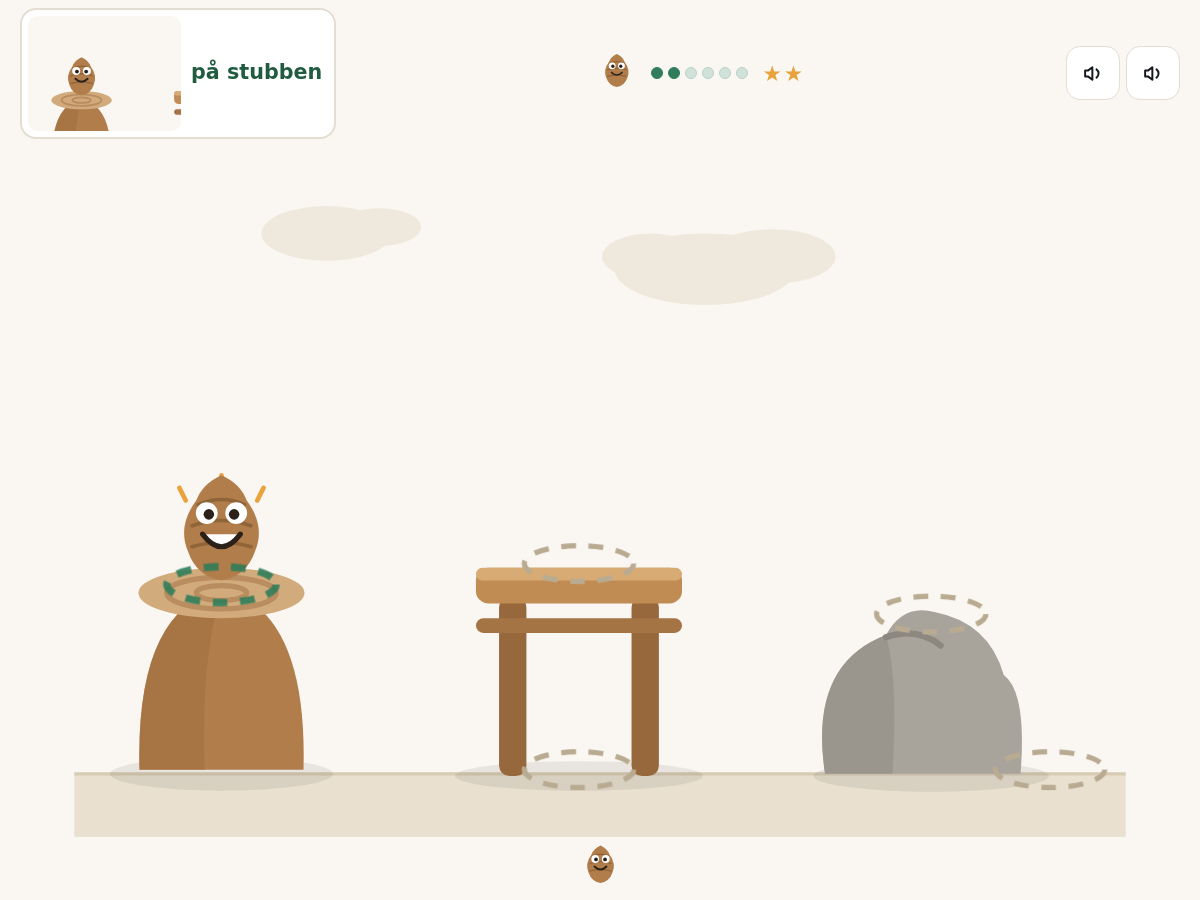
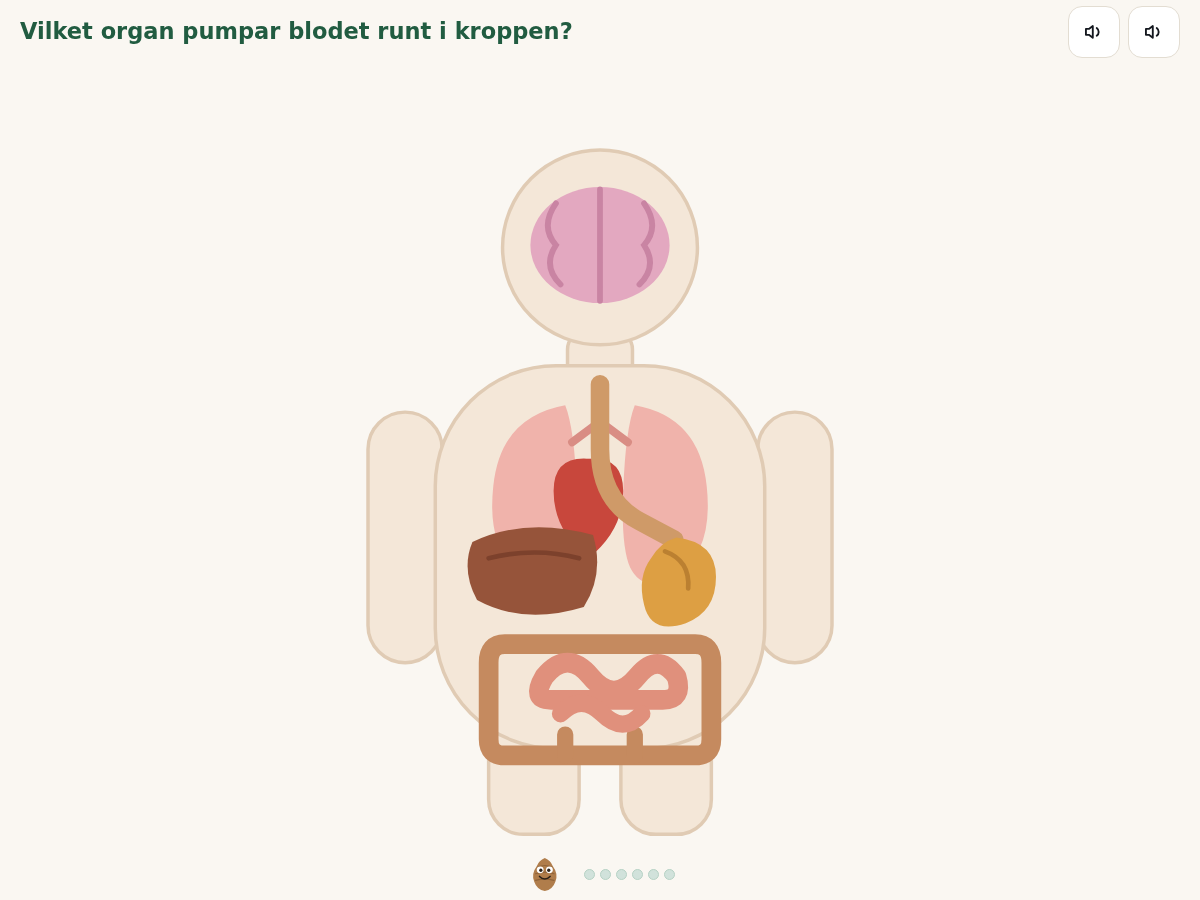
Tjocktarmen håller sig innanför bålen; ny kortbild

diff --git a/public/app.js b/public/app.js
@@ -258,9 +258,9 @@
     },
     tjocktarm: {
       syn: '<path d="M418 492 h164 q14 0 14 16 v66 q0 14 -14 14 h-164 q-14 0 -14 -14 v-66 q0 -16 14 -16z" fill="none" stroke="#c58a5f" stroke-width="17" stroke-linejoin="round"/>' +
-        '<path d="M470 588 v-18M530 588 v-18" stroke="#c58a5f" stroke-width="14" stroke-linecap="round"/>',
+        '<path d="M470 580 v-14M530 580 v-14" stroke="#c58a5f" stroke-width="14" stroke-linecap="round"/>',
       hit: '<path d="M418 492 h164 q14 0 14 16 v66 q0 14 -14 14 h-164 q-14 0 -14 -14 v-66 q0 -16 14 -16z" fill="none" stroke="transparent" stroke-width="22" stroke-linejoin="round"/>' +
-        '<path d="M470 588 v-18M530 588 v-18" stroke="transparent" stroke-width="24" stroke-linecap="round"/>'
+        '<path d="M470 578 v-12M530 578 v-12" stroke="transparent" stroke-width="24" stroke-linecap="round"/>'
     }
   };
 
